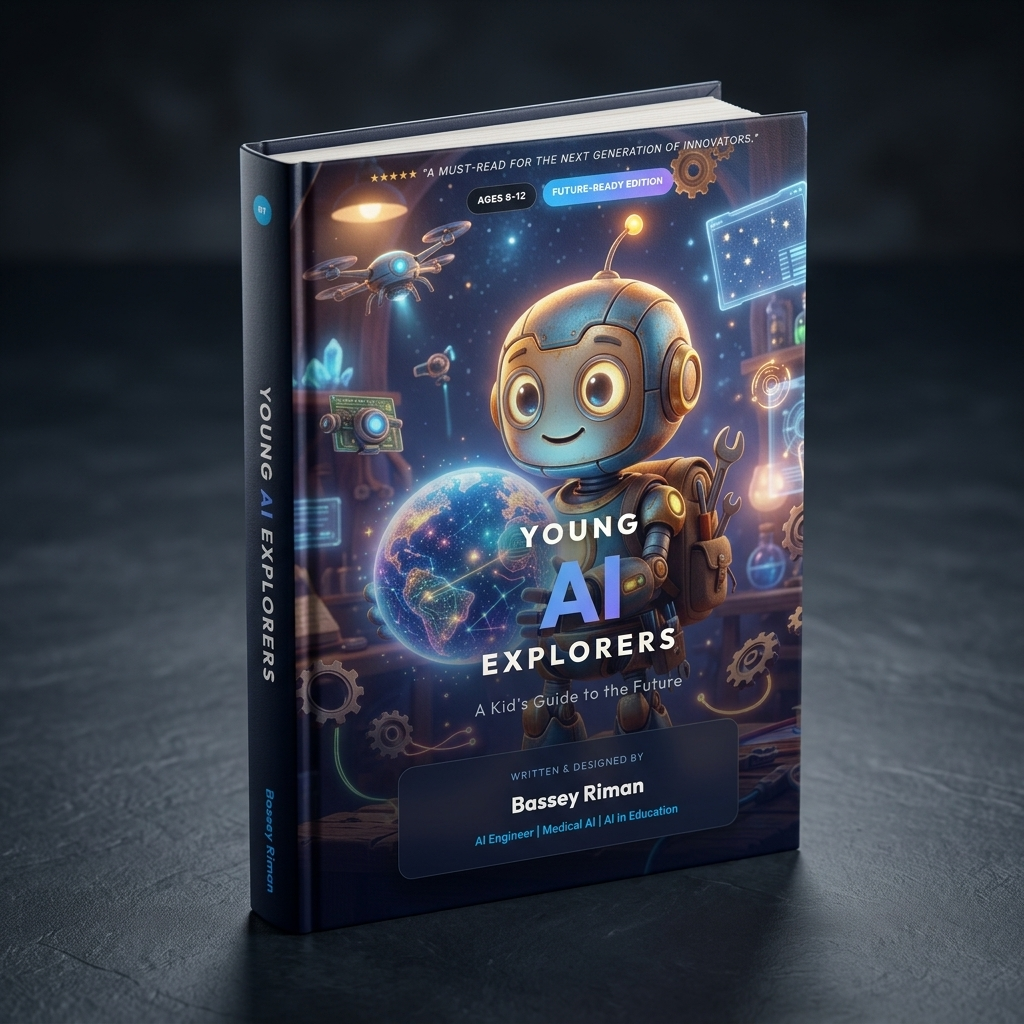
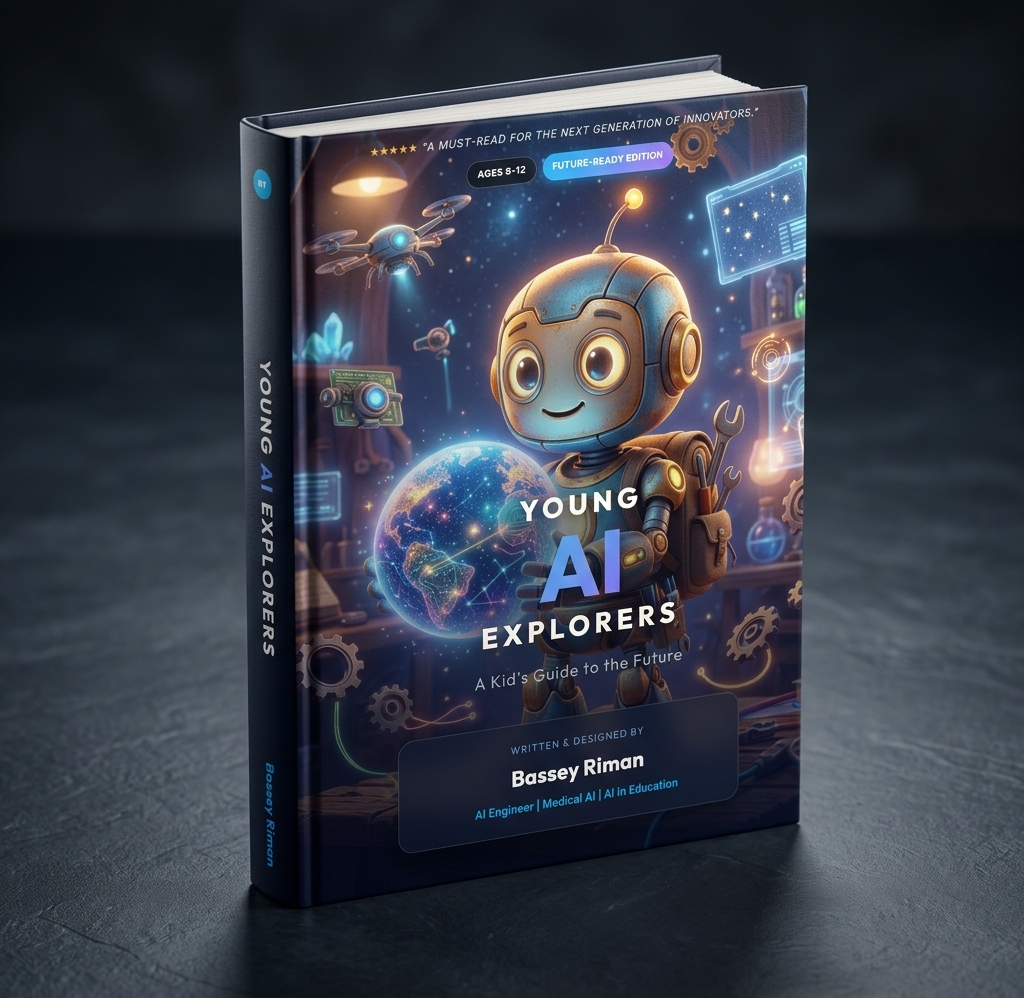
Make Young AI Explorers card image full-width in Selected work.
Use cover on a dark background for work cards while keeping contain layout on the products section.

diff --git a/src/components/sections/CaseStudiesSection.tsx b/src/components/sections/CaseStudiesSection.tsx
@@ -21,8 +21,8 @@ export function CaseStudiesSection() {
 
         <RevealOnScroll className="mt-16 grid gap-8 lg:grid-cols-3 lg:gap-6">
           {caseStudies.map((study) => {
-            const fit = study.imageFit ?? "cover";
-            const bg = study.imageBg ?? "porcelain";
+            const fit = study.cardImageFit ?? study.imageFit ?? "cover";
+            const bg = study.cardImageBg ?? study.imageBg ?? "porcelain";
             const isContain = fit === "contain";
 
             return (

diff --git a/src/types/content.ts b/src/types/content.ts
@@ -47,6 +47,8 @@ export interface CaseStudy {
   imageAlt: string;
   imageFit?: "cover" | "contain";
   imageBg?: "porcelain" | "obsidian" | "page";
+  cardImageFit?: "cover" | "contain";
+  cardImageBg?: "porcelain" | "obsidian" | "page";
   video?: string;
   gallery?: { src: string; alt: string }[];
   href?: string;

diff --git a/content/case-studies.ts b/content/case-studies.ts
@@ -53,6 +53,8 @@ export const caseStudies: CaseStudy[] = [
     imageAlt: "Young AI Explorers book",
     imageFit: "contain",
     imageBg: "porcelain",
+    cardImageFit: "cover",
+    cardImageBg: "obsidian",
     href: "https://youngaiexplorers.net",
   },
   {
